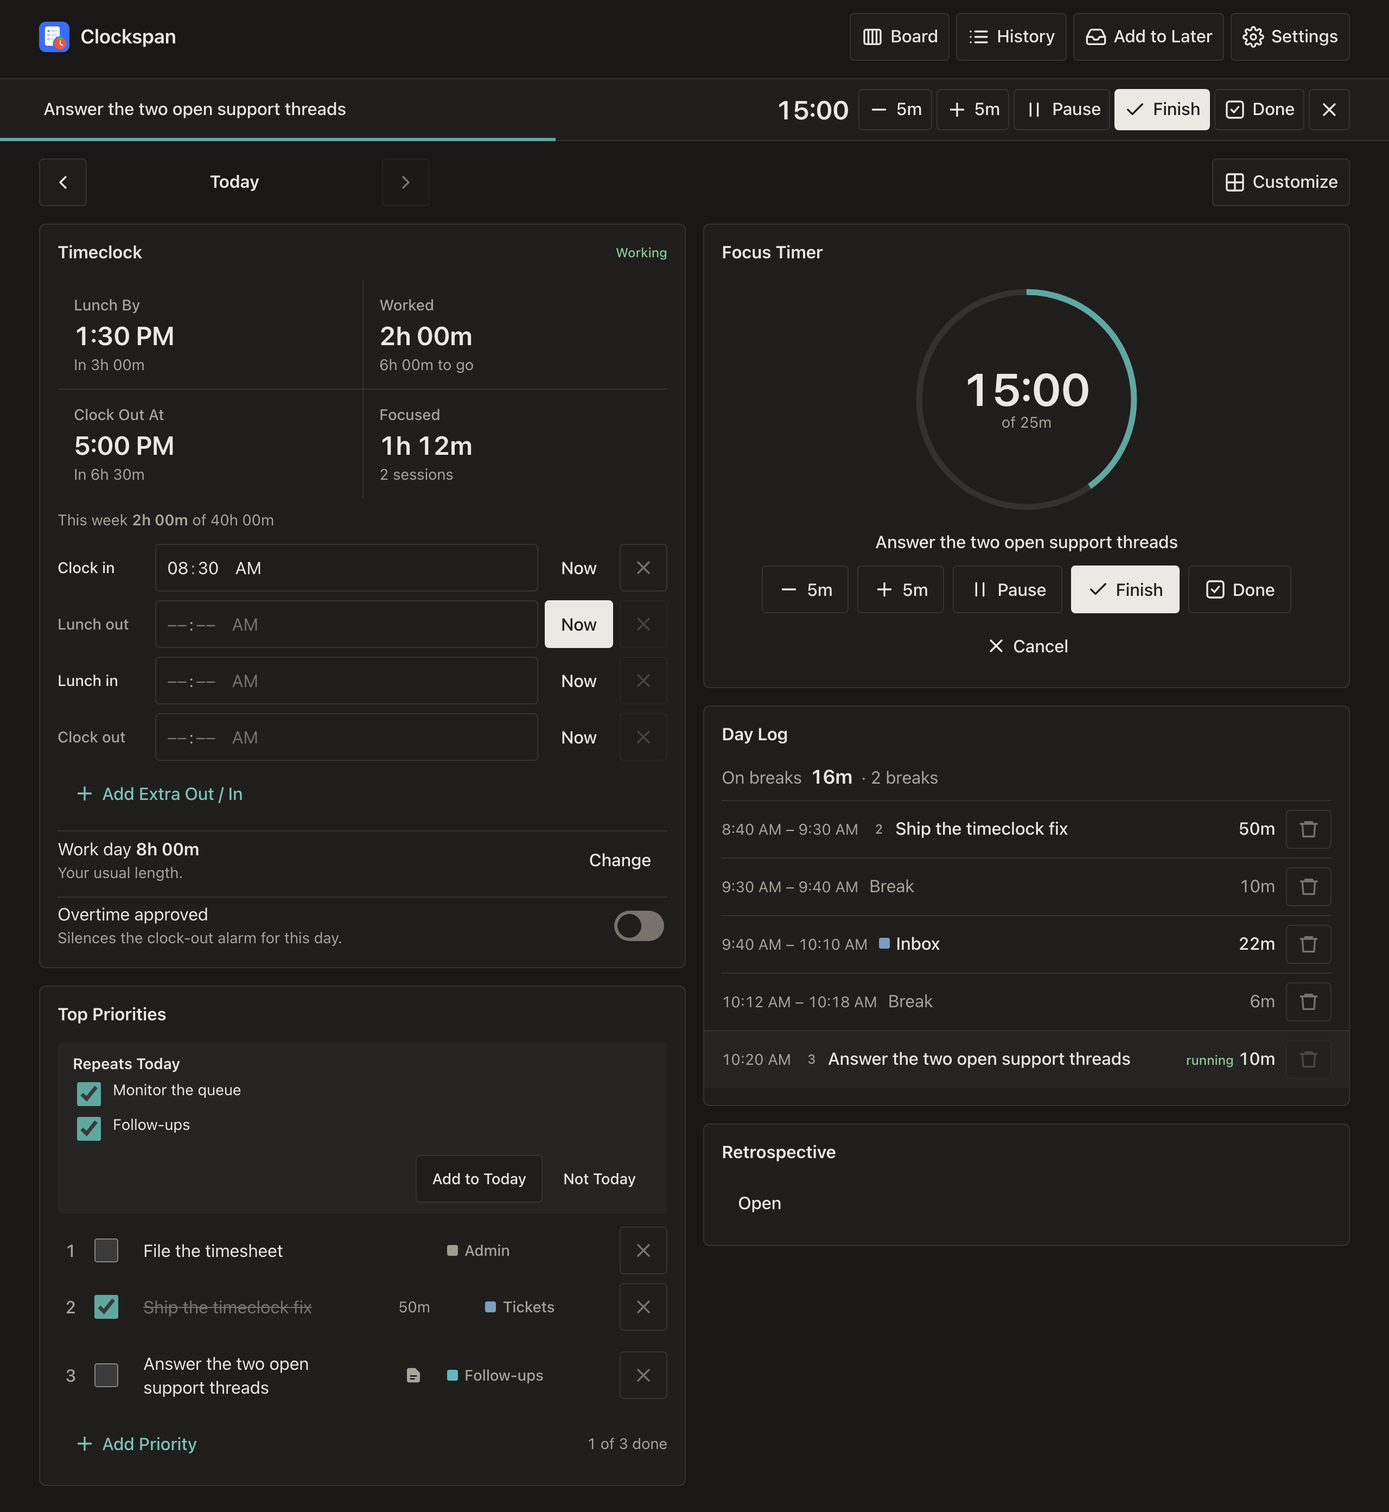
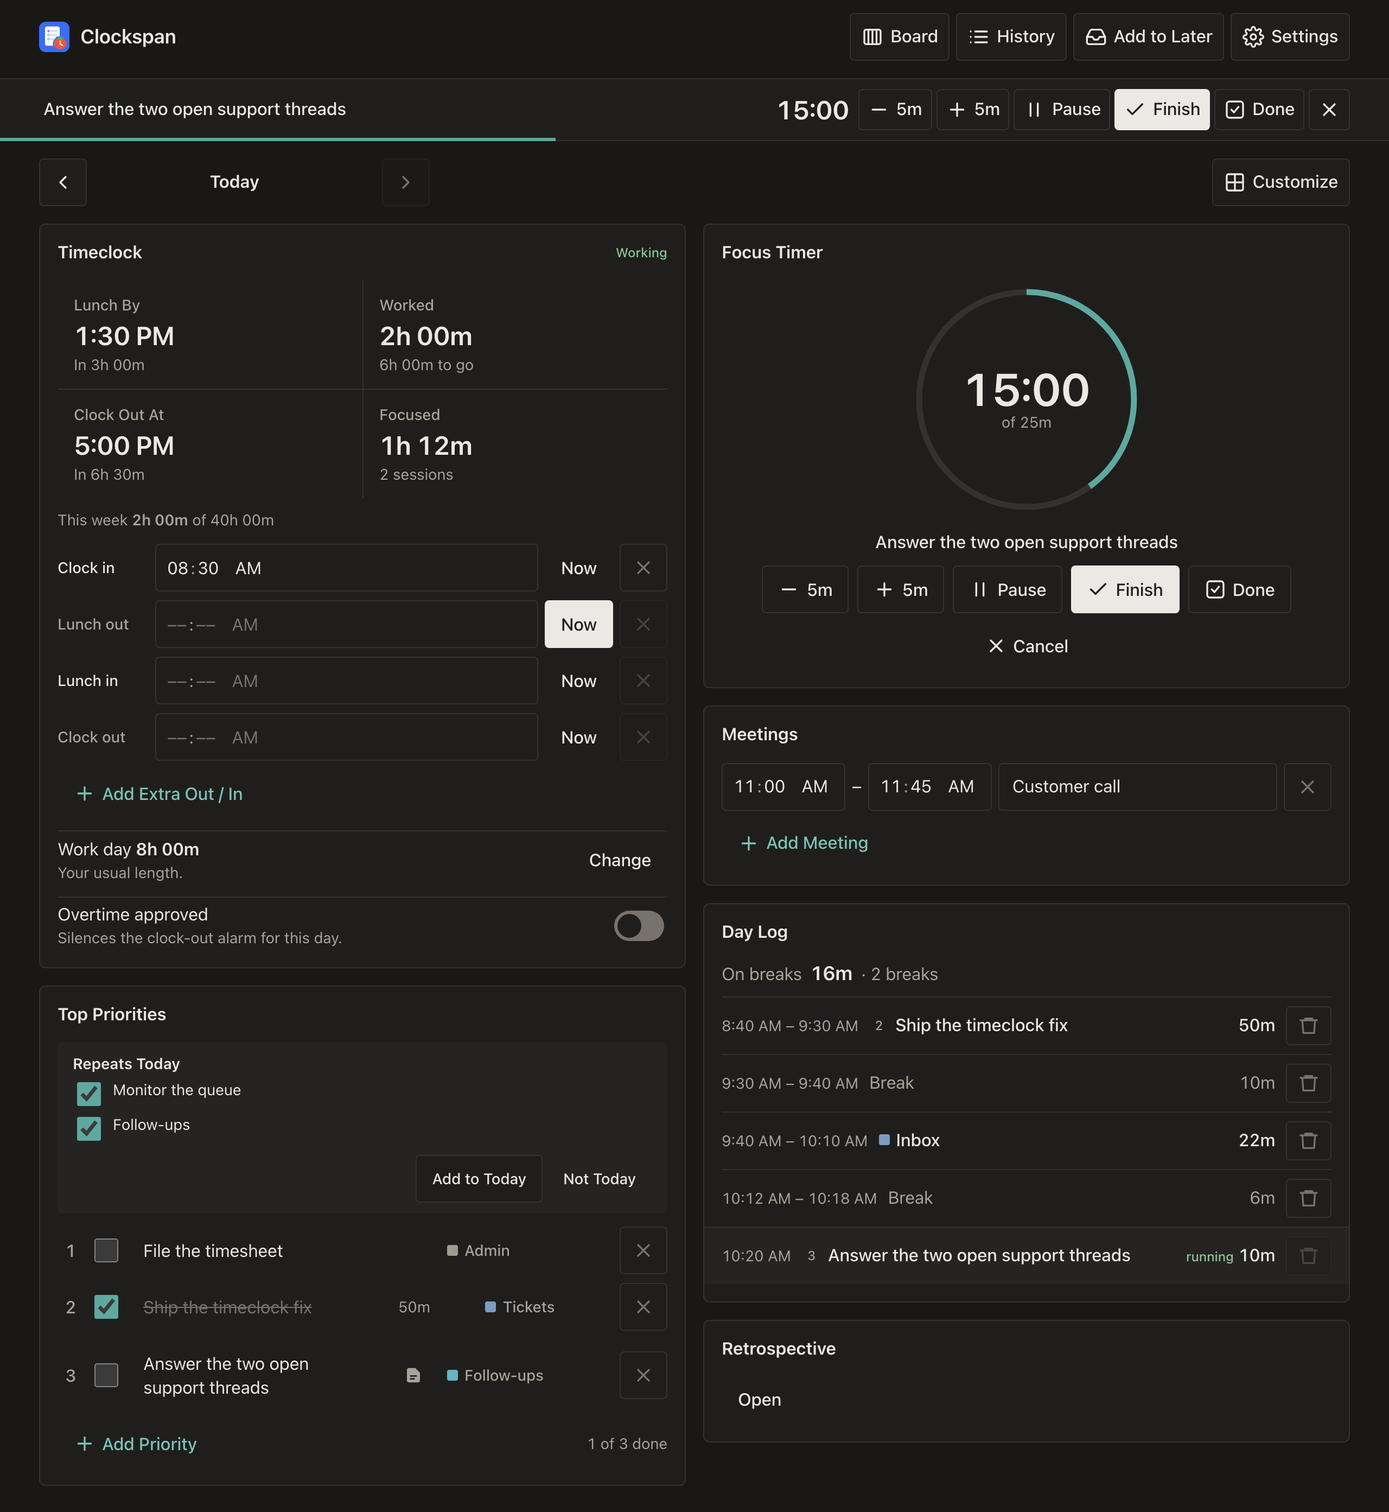
Update the README for meetings (#522)
## What changed

The README pass that ends the meetings series (#512–#521).

- **Features gets a Meetings paragraph:**
- the Meetings card, and weekly meetings with skip, Put Back and moving
one for a day;
  - a change holding from today;
- the timer card's Meeting and End Meeting, and "Free until" with the
muted lengths;
- alarms waiting during a meeting, with only a deadline's own ring
sounding once;
  - the lunch clash note and warning;
  - meeting time in the retrospective and the review.
- **Timeclock.** Extra out/in pairs are time off the clock, such as an
appointment; a meeting is work and goes on the Meetings card. The old
line ("cover appointments") invited a pair that made a meeting unpaid.
- **Other paragraphs:**
  - The intro, Alarms, Retrospective and Review mention meetings.
- Two devices covers meetings: a meeting started on one shows on the
other, and the weekly list is saved whole.
  - Reset All Settings clears weekly meetings.
  - Sample data mentions the seeded calls.
- **Screenshots.** `npm run screenshots` re-run: `sheet-desktop.png`
shows the Meetings card and `review.png` the Meetings fact. The other
shots came out identical, or (`retro.png`) changed only in pixels and
were restored.

## Why

CONTRIBUTING: a feature series ends with a README pass, and README
images follow the surfaces they show.

## How it was verified

- `npm run format:check`, `npm run test:coverage` and `npm run smoke`
pass.
[…]

diff --git a/README.md b/README.md
@@ -5,7 +5,7 @@
 [![Release](https://img.shields.io/github/v/release/geransmith/clockspan)](https://github.com/geransmith/clockspan/releases)
 [![CI](https://github.com/geransmith/clockspan/actions/workflows/ci.yml/badge.svg)](https://github.com/geransmith/clockspan/actions/workflows/ci.yml)
 
-**Clockspan** is a self-hosted, single-day focus sheet for getting through a workday with ADHD. One page: a punch-style timeclock that works out when lunch is due and when the day ends, a short list of the day's priorities, a focus timer that logs what you did, and a retrospective that puts the plan next to what happened. Every day is saved, alarms fire as deadlines approach, and History rolls the days up into a week, month or quarter review. A board holds the tasks that aren't for today. Runs as one Docker container with a SQLite file; works on phones and installs to the Home Screen.
+**Clockspan** is a self-hosted, single-day focus sheet for getting through a workday with ADHD. One page: a punch-style timeclock that works out when lunch is due and when the day ends, a short list of the day's priorities, the day's meetings, a focus timer that logs what you did, and a retrospective that puts the plan next to what happened. Every day is saved, alarms fire as deadlines approach, and History rolls the days up into a week, month or quarter review. A board holds the tasks that aren't for today. Runs as one Docker container with a SQLite file; works on phones and installs to the Home Screen.
 
 <p align="center">
   <img src="docs/screenshots/sheet-phone-dark.png" width="300" alt="The sheet on a phone, dark mode: the header, the running timer bar, the date with Customize, the timeclock with the lunch-by, worked, clock-out and focused tiles, and today's priorities">
@@ -13,11 +13,13 @@
 
 ## Features
 
-**Timeclock.** Tap *Now* on *Clock in* and the sheet works out when lunch must start (default: within 5 hours) and when your day ends (default: 8 hours worked plus a 30-minute lunch), and re-plans if lunch runs long, or leaves it out once the deadline passes without one. A day with no more work than the lunch window (5 hours by default) needs no lunch, so none is planned or alarmed. The *Now* for the next punch is the highlighted one. Forgot to punch? Type the time. Extra out/in pairs cover appointments before or after lunch. The day ends at the *Clock out* once the clock reaches it, early or not, with a small celebration. Until then a *Clock out* typed ahead shows as the end of the day, and the clock-out alarm warns before it when it is earlier than the end the sheet works out. **Work day → Change** gives one day its own length (a half day, a long one), and the clock-out time, alarms and History follow it. *This week* under the tiles adds up the week against your work week (40 hours by default). Punches out of order are pointed out, and that day is left out of the hours totals until they're fixed. So is an earlier day left clocked in, and *This week* names it. An Out typed ahead while you're at lunch or out on an appointment, such as the *Clock out*, isn't flagged until the clock reaches it. A shift past midnight is two days: clock out at 11:59 PM, clock in at 12:00 AM. Times follow the browser's 12- or 24-hour clock unless you pick one. While no session runs, the browser tab's title shows a running break or today's next deadline (*1:30 PM Lunch*, *5:00 PM Out*, then how far past it you are), and a screen share shows it too.
+**Timeclock.** Tap *Now* on *Clock in* and the sheet works out when lunch must start (default: within 5 hours) and when your day ends (default: 8 hours worked plus a 30-minute lunch), and re-plans if lunch runs long, or leaves it out once the deadline passes without one. A day with no more work than the lunch window (5 hours by default) needs no lunch, so none is planned or alarmed. The *Now* for the next punch is the highlighted one. Forgot to punch? Type the time. Extra out/in pairs cover time off the clock before or after lunch, such as an appointment; a meeting is work, so it goes on the Meetings card instead. The day ends at the *Clock out* once the clock reaches it, early or not, with a small celebration. Until then a *Clock out* typed ahead shows as the end of the day, and the clock-out alarm warns before it when it is earlier than the end the sheet works out. **Work day → Change** gives one day its own length (a half day, a long one), and the clock-out time, alarms and History follow it. *This week* under the tiles adds up the week against your work week (40 hours by default). Punches out of order are pointed out, and that day is left out of the hours totals until they're fixed. So is an earlier day left clocked in, and *This week* names it. An Out typed ahead while you're at lunch or out on an appointment, such as the *Clock out*, isn't flagged until the clock reaches it. A shift past midnight is two days: clock out at 11:59 PM, clock in at 12:00 AM. Times follow the browser's 12- or 24-hour clock unless you pick one. While no session runs, the browser tab's title shows a running break or today's next deadline (*1:30 PM Lunch*, *5:00 PM Out*, then how far past it you are), and a screen share shows it too.
 
 **Priorities.** New days start with three rows (adjustable). You can add more; past three one-off rows (or your Rows per day, if higher), the sheet asks first: the nudge changes once some rows are ticked, and again once they all are. Rows can only be ticked once they have text. A row shows the focus time finished on it that day (1h 40m), the same figure as the retrospective. A task has one name, one category and a plain-text note: change any of them on any day, or on the board, and it changes on every day it is on. Pointing at the note's button on the sheet, or at the task's card on the board, shows how the note starts. × takes a task off the day; for a one-off task that is on other days, has time logged or has a note, it asks first whether to take it off this day only or delete it everywhere, and logged time stays in the day log either way. A new day's empty list offers the one-off tasks the last planned day of the past two weeks left unticked, and the top of the board's *Next*, in one tap, as the same tasks.
 
 **Focus timer.** 15, 25 or 50-minute sessions (or three lengths of your own) you can stretch, shorten or pause (paused time isn't logged). When one runs out it chimes and waits for you to add time or finish; a minute or more over, it asks whether to log the planned length or the time you worked, and after ten minutes with no answer it logs the plan. A pause left for an hour ends the session where the pause began. A session the timer ends on its own leaves a banner, with the time, that stays until you close it or start the next one. Link a session to one of your open priorities, or type a new task and it goes on today's list as the session starts. **Done** finishes the session and ticks its priority. The running timer sits under the header on every view and stays in sight as you scroll, and since its start time lives on the server it survives reloads and phone sleep. Between sessions, **Break** counts down a short break (5 minutes by default), says when it's over and logs it in the day log. *Break's Over* stays up until you close it or start a session or break. A break lives on the server like a timer, so it counts down on every device and survives a reload; starting a session ends it. One ended within its first minute (Break pressed by mistake) isn't logged. Turn on *Suggest a break after each session* and finishing a session offers a break sized to it, Pomodoro style: a fifth of the session (25 minutes earn 5), and after four sessions in a row a long break of a fifth of all four, up to 30 minutes.
+
+**Meetings.** The Meetings card lists the day's meetings by start. Add one with its times and an optional title, or press *Meeting* on the timer card when a call starts: it runs until the time you pick (the next half hour by default), and *End Meeting* stops it. Press days under *Repeat* and a meeting comes back every week on those days; on a day it doesn't happen, × skips it (*Put Back* undoes that), and other times typed on its row move it for that day only. A change to a weekly meeting's days or usual time holds from today, so earlier days keep it as it was. Between meetings the timer card says how long you have until the next one and greys out the lengths that would run into it. During a meeting the alarms wait: only a deadline itself (lunch, clock-out, the second meal) rings, once, and whatever else came due rings when the meeting ends. A meeting never counts as a break. A meeting over your lunch deadline puts a note on the timeclock and adds a warning to take lunch in time to be back for it. The retrospective and the review show the time spent in meetings beside the focus time.
 
 **Day log.** Every session with its actual duration and which priority it was for, under that priority's current name. A session can be moved to another priority after the fact, or set to *Unplanned* and given its own label. The breaks you took sit between the sessions, with the day's total time on breaks.
 
@@ -25,7 +27,7 @@
   <img src="docs/screenshots/retro.png" width="360" alt="The retrospective card: the planned priorities with the time logged against each, a routine among them, a row added mid-day, a session that was not on the plan, and the note">
 </p>
 
-**Retrospective.** The plan next to what actually happened: time logged against each priority, the sessions that weren't on the plan, rows that were added mid-day, and a note on why. A reminder fires 30 minutes before clock-out (adjustable) so you write it while you still remember. Until you clock out, today's card is folded behind an Open button.
+**Retrospective.** The plan next to what actually happened: time logged against each priority, the sessions that weren't on the plan, the time in meetings, rows that were added mid-day, and a note on why. A reminder fires 30 minutes before clock-out (adjustable) so you write it while you still remember. Until you clock out, today's card is folded behind an Open button.
 
 <p align="center">
   <img src="docs/screenshots/history.png" width="300" alt="History → Days with the sticker chart on: a month calendar with each day's stickers and their counts, and the picked day's worked, focused and priorities under it with Open Day and Review This Week">
@@ -35,7 +37,7 @@
 
 **History.** A month calendar with each day's hours on it and a thin bar for how much of the work day that was, green once the target was met; step back as far as your data goes. Tap a day for its worked, focused and priorities numbers, a tick once reviewed, and its note, then **Open Day** or **Review This Week**. Turn on the sticker chart and each day shows a sticker instead for each thing it did (clocked out, lunch taken, all priorities done, a focus session logged, retrospective reviewed), with a legend counting them for the month.
 
-**Week / month / quarter review.** History → **Review** rolls the days up: hours worked against a target, focused time and how much of it was on plan, breaks, rows added mid-day, where the off-plan time went, the time under each category, how often each recurring priority got ticked, which priorities never got done, and every day's note. For a week or a month it also says how long sessions typically ran for the one or two most used timer lengths with three or more sessions finished by hand ("25m timers: typically ran 34m"): a session counts under the length it started with, up to when you finished it, pauses left out, and one the timer finished on its own isn't counted. Repeated rows are merged, so a chore that came back on five days is one row with its total, and long lists fold to their first eight rows. Tap a row (outside *By Category*) to open its day, the latest one for a merged row.
+**Week / month / quarter review.** History → **Review** rolls the days up: hours worked against a target, focused time and how much of it was on plan, meetings, breaks, rows added mid-day, where the off-plan time went, the time under each category, how often each recurring priority got ticked, which priorities never got done, and every day's note. For a week or a month it also says how long sessions typically ran for the one or two most used timer lengths with three or more sessions finished by hand ("25m timers: typically ran 34m"): a session counts under the length it started with, up to when you finished it, pauses left out, and one the timer finished on its own isn't counted. Repeated rows are merged, so a chore that came back on five days is one row with its total, and long lists fold to their first eight rows. Tap a row (outside *By Category*) to open its day, the latest one for a merged row.
 
 <p align="center">
   <img src="docs/screenshots/board-desktop.png" width="720" alt="The Board page on a desktop, dark mode: the header, the running timer's bar under it, a row of today's clock times, then Later, with two recurring priorities and their days under Repeats at its end, Next with the tasks left open on earlier days, In Progress (today's priorities) and Done side by side, a + on each column but Done, cards marked with their category, the one the timer runs on marked running, and a note mark on the two cards that have a note">
@@ -49,13 +51,13 @@
   <img src="docs/screenshots/settings-data.png" width="300" alt="Settings → Data: delete old days automatically after N days, or delete everything before a date">
 </p>
 
-**Alarms.** Sound, browser notification and in-app banner as lunch, clock-out and (on long days) the second meal period approach, each with its own warn-before, when-reached and repeat rules, and a sound per kind of event. The first time you clock in or start a timer on a device, the browser asks to allow notifications. On a day heading past 10 hours of work, the second meal period alarm warns before the 10th hour ends. *Lunch Is Over* rings when lunch has run its length with no *Lunch in*, with a *Lunch In Now* button, then every 15 minutes until you punch it. The break alarm rings after 90 minutes without a break (counted from your last break or your last In punch) with a button that starts one, then every hour; it waits while a timer or a break runs, and holds off from 30 minutes before a lunch or clock-out deadline. Both are on by default. Once a repeating alarm is past its deadline, its banner has *Snooze 15 min*, which quiets that alarm alone, on every device. An *Overtime approved* switch silences that day's clock-out alarm only; meal alarms stay on. A session or break logged with no *Clock in* raises one quiet *Not Clocked In* banner a day, whose button clocks you in at the first one's start. Finishing the day, reaching the work week and ticking a priority get a burst of emoji (one switch turns them off) and the sound picked for that event (none for a tick, until you pick one). The defaults (lunch within 5 hours, a second meal after 10, meal alarms on during overtime) follow California rules, where the author works; everything is adjustable, and pull requests with rules for other places are welcome.
+**Alarms.** Sound, browser notification and in-app banner as lunch, clock-out and (on long days) the second meal period approach, each with its own warn-before, when-reached and repeat rules, and a sound per kind of event. The first time you clock in or start a timer on a device, the browser asks to allow notifications. On a day heading past 10 hours of work, the second meal period alarm warns before the 10th hour ends. *Lunch Is Over* rings when lunch has run its length with no *Lunch in*, with a *Lunch In Now* button, then every 15 minutes until you punch it. The break alarm rings after 90 minutes without a break (counted from your last break or your last In punch) with a button that starts one, then every hour; it waits while a timer or a break runs, and holds off from 30 minutes before a lunch or clock-out deadline. Both are on by default. Once a repeating alarm is past its deadline, its banner has *Snooze 15 min*, which quiets that alarm alone, on every device. During a meeting the alarms wait (see *Meetings*). An *Overtime approved* switch silences that day's clock-out alarm only; meal alarms stay on. A session or break logged with no *Clock in* raises one quiet *Not Clocked In* banner a day, whose button clocks you in at the first one's start. Finishing the day, reaching the work week and ticking a priority get a burst of emoji (one switch turns them off) and the sound picked for that event (none for a tick, until you pick one). The defaults (lunch within 5 hours, a second meal after 10, meal alarms on during overtime) follow California rules, where the author works; everything is adjustable, and pull requests with rules for other places are welcome.
 
 **Salaried or exempt.** *Settings → Timeclock* has a switch for each part that may not apply: *Meal periods* (then *Lunch punches* to hide the lunch rows too), *Overtime* and *Show hours*. If you don't punch at all, hide the timeclock card; the rest of the sheet works without it.
 
-**Two devices.** With the app open on a laptop and a phone, a change saved on one shows on the other within a second. Priority lists merge row by row; for a task's name, category or note the later change wins. There is one timer, and each device raises its own alarms. Snoozing an alarm or answering a new day's offer on one does the same on the other.
+**Two devices.** With the app open on a laptop and a phone, a change saved on one shows on the other within a second. Priority lists merge row by row; for a task's name, category or note the later change wins. There is one timer, and each device raises its own alarms. Snoozing an alarm, answering a new day's offer or starting a meeting on one does the same on the other. The weekly meetings are saved as one list, so two devices changing them at the same moment keep one of the changes.
 
-**Sign-in and data.** Per-user sheets, history, boards, settings and layout. Sign-in is optional: run it open on your LAN, create local accounts, or sign in through an OIDC provider such as Authentik. Old days can be deleted by hand or pruned automatically after a number of days you choose, with an optional server-wide ceiling (`RETENTION_DAYS`). *Reset All Settings* puts the settings back and leaves days and the board alone.
+**Sign-in and data.** Per-user sheets, history, boards, settings and layout. Sign-in is optional: run it open on your LAN, create local accounts, or sign in through an OIDC provider such as Authentik. Old days can be deleted by hand or pruned automatically after a number of days you choose, with an optional server-wide ceiling (`RETENTION_DAYS`). *Reset All Settings* puts the settings back, weekly meetings included, and leaves days and the board alone.
 
 **Layout.** Each user can reorder or hide the sheet's cards. A window 1100 px wide or more shows them in two columns, and any card can move to the other one.
 
@@ -99,8 +101,8 @@ A fresh checkout has an empty database, so History, the retrospective and the we
 / quarter review have nothing to show. `npm run seed` fills `./data/focus.db` with the last
 ten weekdays, each with punches, priorities, focus sessions and a retrospective note (an extra
 out / in pair, an overtime day, a day never marked reviewed and a half day among them), and
-today, clocked in two hours ago. It also writes four categories, two recurring priorities and
-some tasks on the board. [AGENTS.md](AGENTS.md#dev-data-is-disposable) and
+today, clocked in two hours ago, with a call booked for later; the normal days have a half-hour
+call too. It also writes four categories, two recurring priorities and some tasks on the board. [AGENTS.md](AGENTS.md#dev-data-is-disposable) and
 [server/dev/seed.ts](server/dev/seed.ts) say what each day holds.
 
 Dates are relative to the day you run it, so the sample always lands in the current week.
